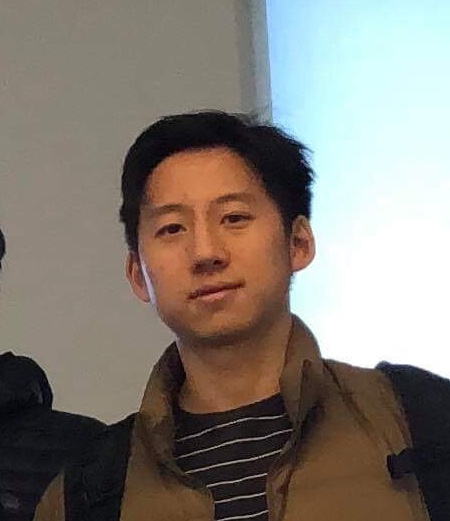
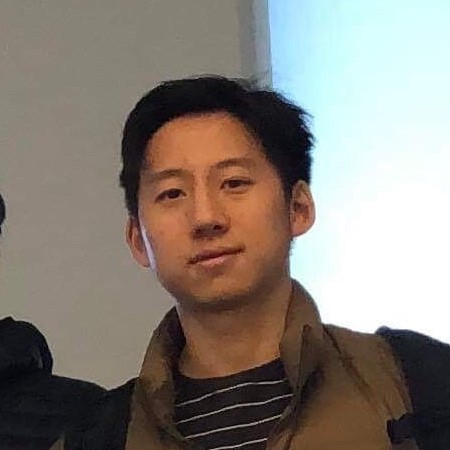
edit links and images

diff --git a/index.html b/index.html
@@ -2,23 +2,30 @@
 layout: default
 title: Yuchen Liu
 ---
-        
-<div class="intro">
-    <img src="./assets/images/profile_pic.jpg"  class="rounded-circle" alt="profile picture" id="profile_pic">
-    <h1 id="name">Yuchen Liu</h1>
-    <p id="description">I'm a freshman at NYU, studying math and computer science. <br><br>Throughout high school I completed Calculus 1, 2 and taught myself
-    programming languages such as Java and C. I'm interested in working with others to develop software products. My passions lie
-    particularly in software engineering, blockchain technology, and web design.<br></p>
+<div class="container">
+
+    <div class="intro">
+        <img src="./assets/images/profile_pic.jpg" class="rounded-circle" alt="profile picture" id="profile_pic">
+        <h1 id="name">Yuchen Liu</h1>
+        <p id="description">I'm a freshman at NYU, studying math and computer science. <br><br>Throughout high school I
+            completed Calculus 1, 2 and taught myself
+            programming languages such as Java and C. I'm interested in working with others to develop software products. My
+            passions lie
+            particularly in software engineering, blockchain technology, and web design.<br></p>
+    </div>
+    
+    <div class="links">
+        <a href="https://www.linkedin.com/in/yuchen-liu-29a704119/" target="_blank">linkedin</a>
+        <a href="https://github.com/yuchenliu15?tab=repositories" target="_blank">github</a>
+        <a href="/assets/links/Liu_Yuchen_resume.pdf" target="_blank">resume</a>
+        <a href="mailto:yuchenliu15@gmail.com?subject=subject">email</a>
+    
+    </div>
+    
 </div>
 
-<div class="links">
-    <a href="https://www.linkedin.com/in/yuchen-liu-29a704119/" target="_blank">linkedin</a>
-    <a href="https://github.com/yuchenliu15?tab=repositories" target="_blank">github</a>
-    <a  href="/assets/links/Liu_Yuchen_resume.pdf" target="_blank">resume</a>
-    <a href="mailto:yuchenliu15@gmail.com?subject=subject">email</a>
-
-</div>
 
 <footer class="footer">
-    <p>Copyright © Yuchen Liu 2019</p>
+    <p>Built by Yuchen Liu 2020. Source code on <a
+            href="https://github.com/yuchenliu15/yuchenliu15.github.io">Github</a></p>
 </footer>

diff --git a/_site/index.html b/_site/index.html
@@ -13,26 +13,33 @@
 
 <body>
 
+    <div class="container">
+
     <div class="intro">
-    <img src="./assets/images/profile_pic.jpg"  class="rounded-circle" alt="profile picture" id="profile_pic">
-    <h1 id="name">Yuchen Liu</h1>
-    <p id="description">I'm a freshman at NYU, studying math and computer science. <br><br>Throughout high school I completed Calculus 1, 2 and taught myself
-    programming languages such as Java and C. I'm interested in working with others to develop software products. My passions lie
-    particularly in software engineering, blockchain technology, and web design.<br></p>
+        <img src="./assets/images/profile_pic.jpg" class="rounded-circle" alt="profile picture" id="profile_pic">
+        <h1 id="name">Yuchen Liu</h1>
+        <p id="description">I'm a freshman at NYU, studying math and computer science. <br><br>Throughout high school I
+            completed Calculus 1, 2 and taught myself
+            programming languages such as Java and C. I'm interested in working with others to develop software products. My
+            passions lie
+            particularly in software engineering, blockchain technology, and web design.<br></p>
+    </div>
+    
+    <div class="links">
+        <a href="https://www.linkedin.com/in/yuchen-liu-29a704119/" target="_blank">linkedin</a>
+        <a href="https://github.com/yuchenliu15?tab=repositories" target="_blank">github</a>
+        <a href="/assets/links/Liu_Yuchen_resume.pdf" target="_blank">resume</a>
+        <a href="mailto:yuchenliu15@gmail.com?subject=subject">email</a>
+    
+    </div>
+    
 </div>
 
-<div class="links">
-    <a href="https://www.linkedin.com/in/yuchen-liu-29a704119/" target="_blank">linkedin</a>
-    <a href="https://github.com/yuchenliu15?tab=repositories" target="_blank">github</a>
-    <a  href="/assets/links/Liu_Yuchen_resume.pdf" target="_blank">resume</a>
-    <a href="mailto:yuchenliu15@gmail.com?subject=subject">email</a>
-
-</div>
 
 <footer class="footer">
-    <p>Copyright © Yuchen Liu 2019</p>
+    <p>Built by Yuchen Liu 2020. Source code on <a
+            href="https://github.com/yuchenliu15/yuchenliu15.github.io">Github</a></p>
 </footer>
-
 
 </body>
 

diff --git a/_site/assets/css/style.css b/_site/assets/css/style.css
@@ -4,22 +4,18 @@ body { overflow: auto; overflow-y: scroll; overflow-x: hidden; }
 
 .intro { display: grid; grid-template-columns: 10% 10% 40% 40%; grid-template-rows: 120px 50% 50; align-content: center; }
 
-#profile_pic { max-width: 100px; width: 100px; height: 100px; grid-column: 2; margin-top: 15px; }
+#profile_pic { max-width: 100%; height: auto; grid-column: 2; border-radius: 50%; }
 
 #name { text-shadow: 2px 2px black; font-family: "Candara"; color: #34495e; grid-column: 3; margin-top: 5%; font-size: 60px; }
 
 #description { display: block; box-shadow: 0 4px 8px 0 rgba(0, 0, 0, 0.2), 0 6px 20px 0 rgba(0, 0, 0, 0.19); border-radius: 40px; background-color: #b2bec3; padding: 20px; grid-row: 2/4; grid-column: 2/4; font-family: "Candara"; font-size: 20px; }
 
-#background { min-height: 100%; min-width: 1024px; width: 100%; height: auto; position: fixed; z-index: -1; top: 0; left: 0; }
-
 .links { position: relative; left: 210px; word-spacing: 20px; }
 
 .links a { font-size: 20px; font-family: sans-serif; text-decoration: none; color: #6c5ce7; }
 
-.footer { position: absolute; background-color: black; color: white; width: 100%; height: 100px; left: 0; bottom: -100px; }
+footer { position: absolute; background-color: black; color: white; width: 100%; height: 100px; left: 0; bottom: -100px; }
 
-.footer p { text-align: center; margin-top: 60px; font-size: 13px; font-family: sans-serif; color: #7f8fa6; }
+footer p { text-align: center; margin-top: 60px; font-size: 13px; font-family: sans-serif; color: #7f8fa6; }
 
 @media screen and (max-width: 1024px) { #background { width: 50%; margin-left: -512px; } }
-
-/*# sourceMappingURL=style.css.map */

diff --git a/_sass/main.scss b/_sass/main.scss
@@ -16,11 +16,10 @@ body{
 }
 
 #profile_pic{
-    max-width: 100px;
-    width: 100px;
-    height: 100px;
+    max-width: 100%; 
+    height: auto;
     grid-column: 2;
-    margin-top: 15px;
+    border-radius: 50%;
 }
 
 #name{
@@ -45,17 +44,6 @@ body{
     
 }
 
-#background{
-    min-height: 100%;
-    min-width: 1024px;
-    width: 100%;
-    height: auto;
-    
-    position: fixed;
-    z-index: -1;
-    top: 0;
-    left: 0;
-}
 
 .links{
     position: relative;
@@ -71,7 +59,7 @@ body{
     color: #6c5ce7;
 }
 
-.footer{
+footer{
     
     position: absolute;
     background-color: black;
@@ -82,7 +70,7 @@ body{
     bottom:-100px;
 }
 
-.footer p{
+footer p{
     text-align: center;
     margin-top: 60px;
     font-size: 13px;

diff --git a/_site/README.md b/_site/README.md
@@ -1,1 +1,7 @@
-# yuchenliu15.github.io
+#  yuchenliu.me / yuchenliu15.github.io
+
+This is my personal website to introduce myself, showcase my projects, and blog. <br/>
+
+## Goals
+- Since these sites are built with Jekyll, I'd like to keep practicing Jekyll.
+- Experiment with HTML/CSS/JS.
